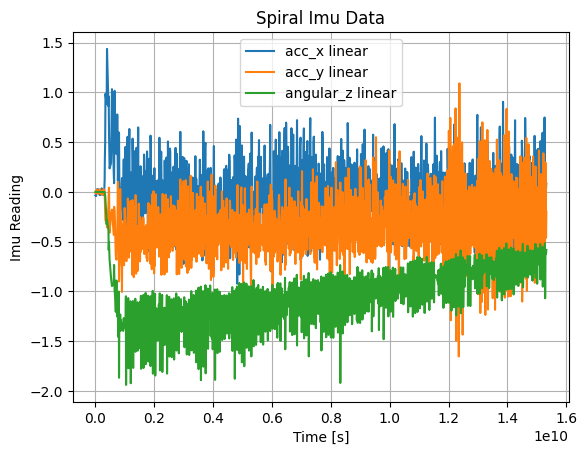
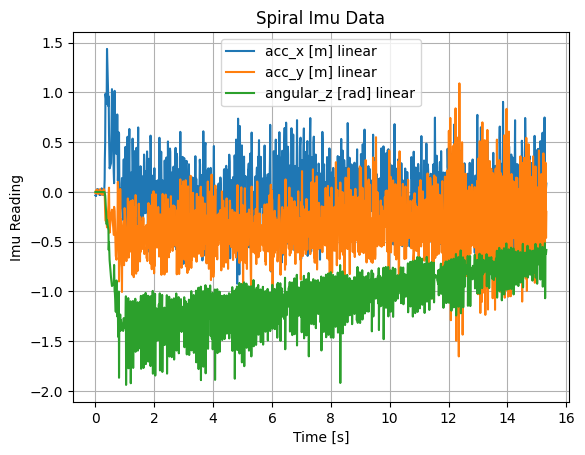
fix some visual issues with the plotting

diff --git a/filePlotter.py b/filePlotter.py
@@ -11,7 +11,7 @@ import numpy as np
 def get_path_sensor_from_filename(fname: str) -> tuple[str, str]:
     # filename should be in format data/{path}/{sensor}
     # returns capitalized path and sensor names
-    filename_parts = filename.replace("/", "\\").replace(".csv", "").split("\\")
+    filename_parts = fname.replace("/", "\\").replace(".csv", "").split("\\")
     assert filename_parts[0] == "data" and len(filename_parts) == 3
     return filename_parts[1].capitalize(), filename_parts[2].capitalize()
 
@@ -22,11 +22,17 @@ def plot_errors(filename: str):
     time_list=[]
     first_stamp=values[0][-1]
     for val in values:
-        time_list.append(val[-1] - first_stamp)
+        # convert time from [ns] to [s]
+        time_list.append((val[-1] - first_stamp) * 1e-9)
+
+    plot_order = range(0, len(headers) - 1)
+    # required for all data to be visible
+    if path_type == "Line" and sensor == "Imu":
+        plot_order = [1, 0, 2]
 
     plt.figure()
-    for i in range(0, len(headers) - 1):
-        plt.plot(time_list, [lin[i] for lin in values], label= headers[i]+ " linear")
+    for i in plot_order:
+        plt.plot(time_list, [lin[i] for lin in values], label= f"{headers[i]} linear")
     
     #plt.plot([lin[0] for lin in values], [lin[1] for lin in values])
     plt.title(f"{path_type} {sensor} Data")
@@ -48,7 +54,8 @@ def plot_laser(filename):
     
     # assumes all rows have same entries
     laser_data = np.array(values)[:, :-1]
-    times = np.array(values)[:, -1] - first_stamp
+    # convert times from [ns] to [s]
+    times = (np.array(values)[:, -1] - first_stamp) * 1e-9
     times_tiled = np.tile(times[np.newaxis].T, (laser_data.shape[1]))
 
     # angle between range measurements
@@ -66,14 +73,25 @@ def plot_laser(filename):
     ax.scatter(x.flatten(), y.flatten(), times_tiled.flatten(), marker="o")
     # ax.scatter(x[0], y[0], times_tiled[0], marker="o")
 
-    ax.set_title(f"{path_type} Laser Readings")
+    ax.set_title(f"{path_type} Lidar Readings")
+    ax.set_xlabel("X [m]")
+    ax.set_ylabel("Y [m]")
+    ax.set_zlabel("time [s]")
+    ax.set_box_aspect(aspect=None, zoom=0.8)
 
-    ax.set_xlabel("X")
-    ax.set_ylabel("Y")
-    ax.set_zlabel("time")
+    plt.savefig(f"plots/{path_type.lower()}_lidar_3d.png", transparent=True, bbox_inches='tight')
 
-    plt.savefig(f"plots/{path_type.lower()}_laser.png", transparent=True, bbox_inches='tight')
+    # 2d plotting
+    # slice of 3d plot at t=0
+    plt.figure()
+    plt.scatter(x[0], y[0])
 
+    plt.xlabel("X [m]")
+    plt.ylabel("Y [m]")
+
+    plt.title("Initial Lidar Reading")
+
+    plt.savefig(f"plots/{path_type.lower()}_lidar.png", transparent=True, bbox_inches='tight')
     
 
 import argparse

diff --git a/motions.py b/motions.py
@@ -57,9 +57,9 @@ class motion_executioner(Node):
             os.mkdir("data")
         if not os.path.exists(dir):
             os.mkdir(dir)
-        self.imu_logger=Logger(f"{dir}/imu.csv", headers=["acc_x", "acc_y", "angular_z", "stamp"])
-        self.odom_logger=Logger(f"{dir}/odom.csv", headers=["x","y","th", "stamp"])
-        self.laser_logger=Logger(f"{dir}/laser.csv", headers=["ranges", "stamp"])
+        self.imu_logger=Logger(f"{dir}/imu.csv", headers=["acc_x [m]", "acc_y [m]", "angular_z [rad]", "stamp"])
+        self.odom_logger=Logger(f"{dir}/odom.csv", headers=["x [m]","y [m]","th [rad]", "stamp"])
+        self.laser_logger=Logger(f"{dir}/laser.csv", headers=["ranges [m]", "stamp"])
 
         # TODO Part 3: Create the QoS profile by setting the proper parameters in (...)
         """
@@ -68,7 +68,6 @@ class motion_executioner(Node):
         History (Depth): UNKNOWN
         Durability: VOLATILE
         """
-
         qos = QoSProfile(reliability=ReliabilityPolicy.BEST_EFFORT, durability=DurabilityPolicy.VOLATILE, depth=10)
 
         # TODO Part 5: Create below the subscription to the topics corresponding to the respective sensors
